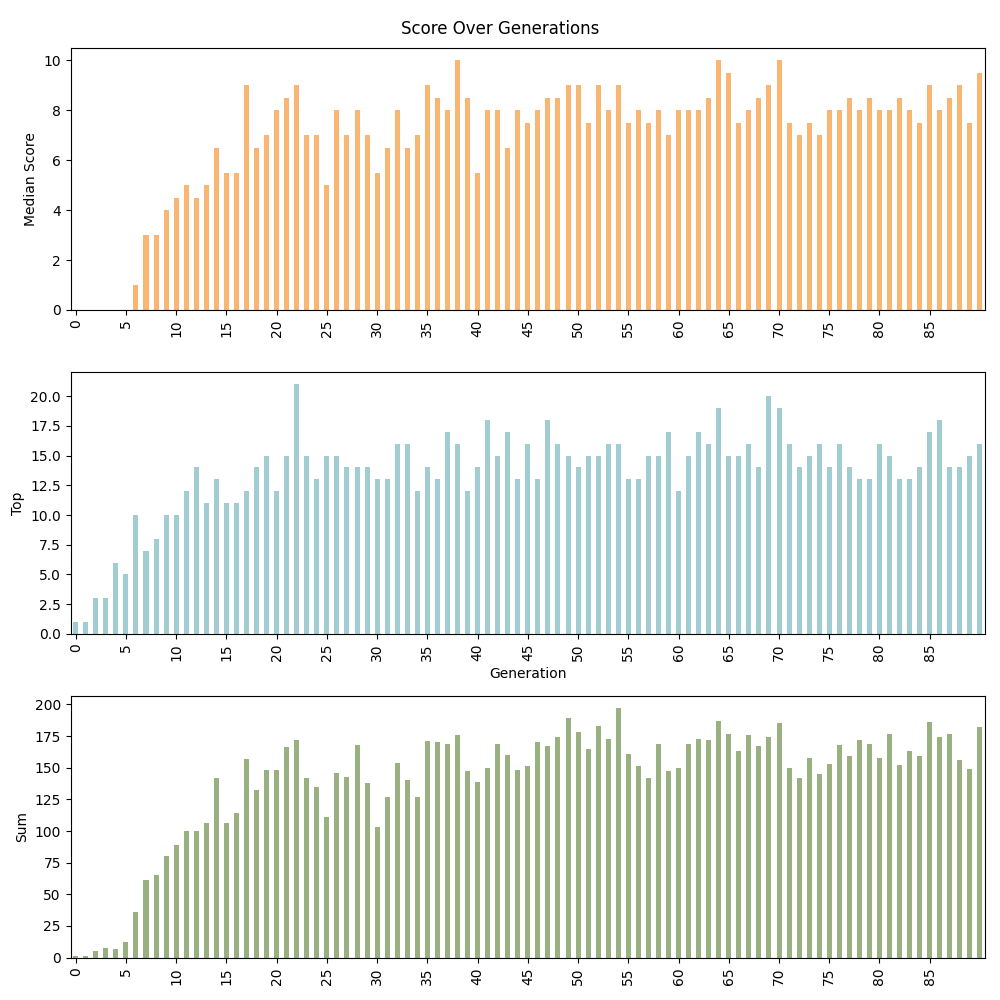
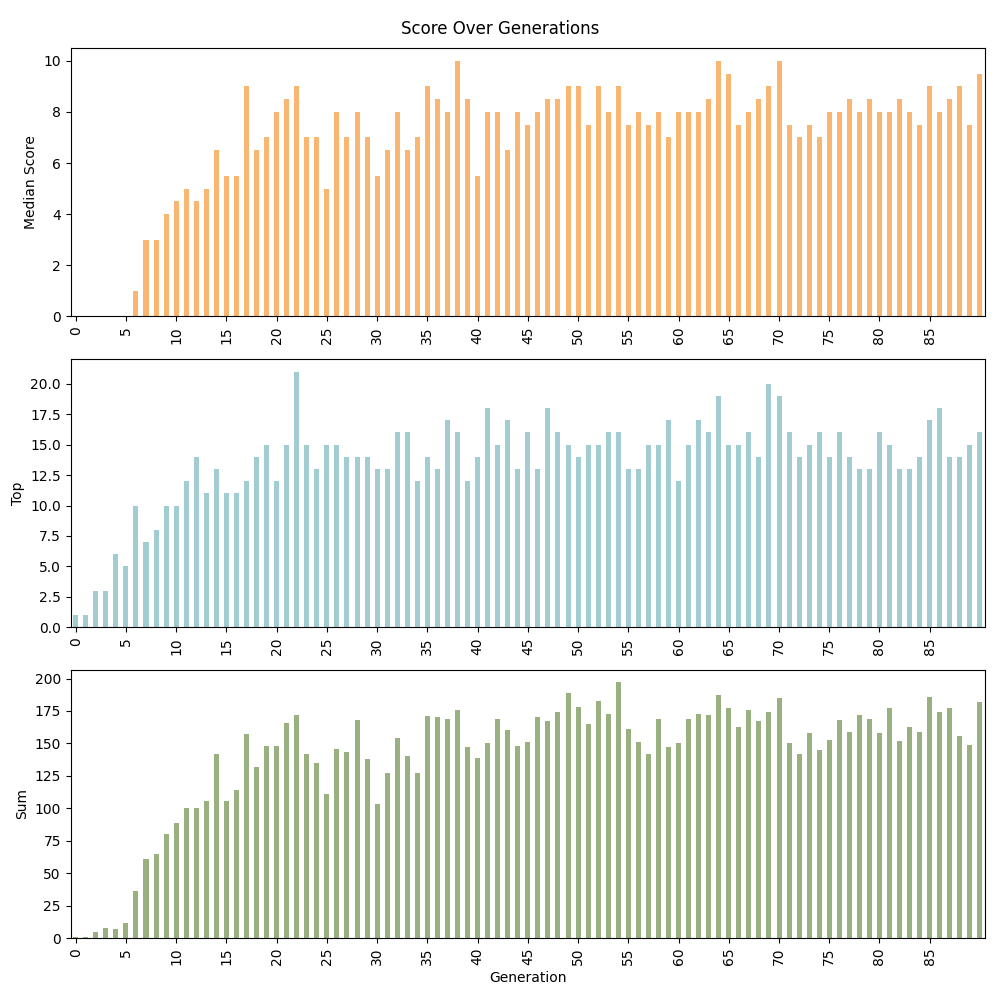
plot update

diff --git a/plot/plot.py b/plot/plot.py
@@ -41,13 +41,13 @@ plt.show()
 top = data.max(numeric_only=True, axis=1)
 top.plot(kind='bar', ax=axs[1], color='#A1CCD1')
 axs[1].set_xticks(np.arange(0, 90, 5.0))
-axs[1].set(xlabel='Generation', ylabel='Top')
+axs[1].set(ylabel='Top')
 plt.show()
 
 sum = data.sum(numeric_only=True, axis=1)
 sum.plot(kind='bar',ax=axs[2], color='#99B080')
 axs[2].set_xticks(np.arange(0, 90, 5.0))
-axs[2].set(ylabel='Sum')
+axs[2].set(xlabel='Generation', ylabel='Sum')
 plt.show()
 
 fig.tight_layout()
